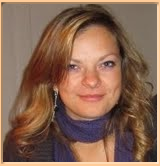
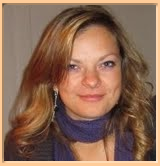
changed style sheet to jm to try it out

Changed region(s): [[0.0, 0.0, 1.0, 0.994]]

diff --git a/index.html b/index.html
@@ -15,7 +15,7 @@ carrying out post Doctorate research at Imperial College, London." >
 <div class ="content" > <a name="top"></a>
 <div class = "header">
 <a href="mailto:c.merrifield07@imperial.ac.uk "
-Title="Claire Email"><img src="Claire.jpg" alt="Claire Email" id="claire"></a>
+Title="Claire Email"><img src="Claire.png" alt="Claire Email" id="claire"></a>
 
 
 
